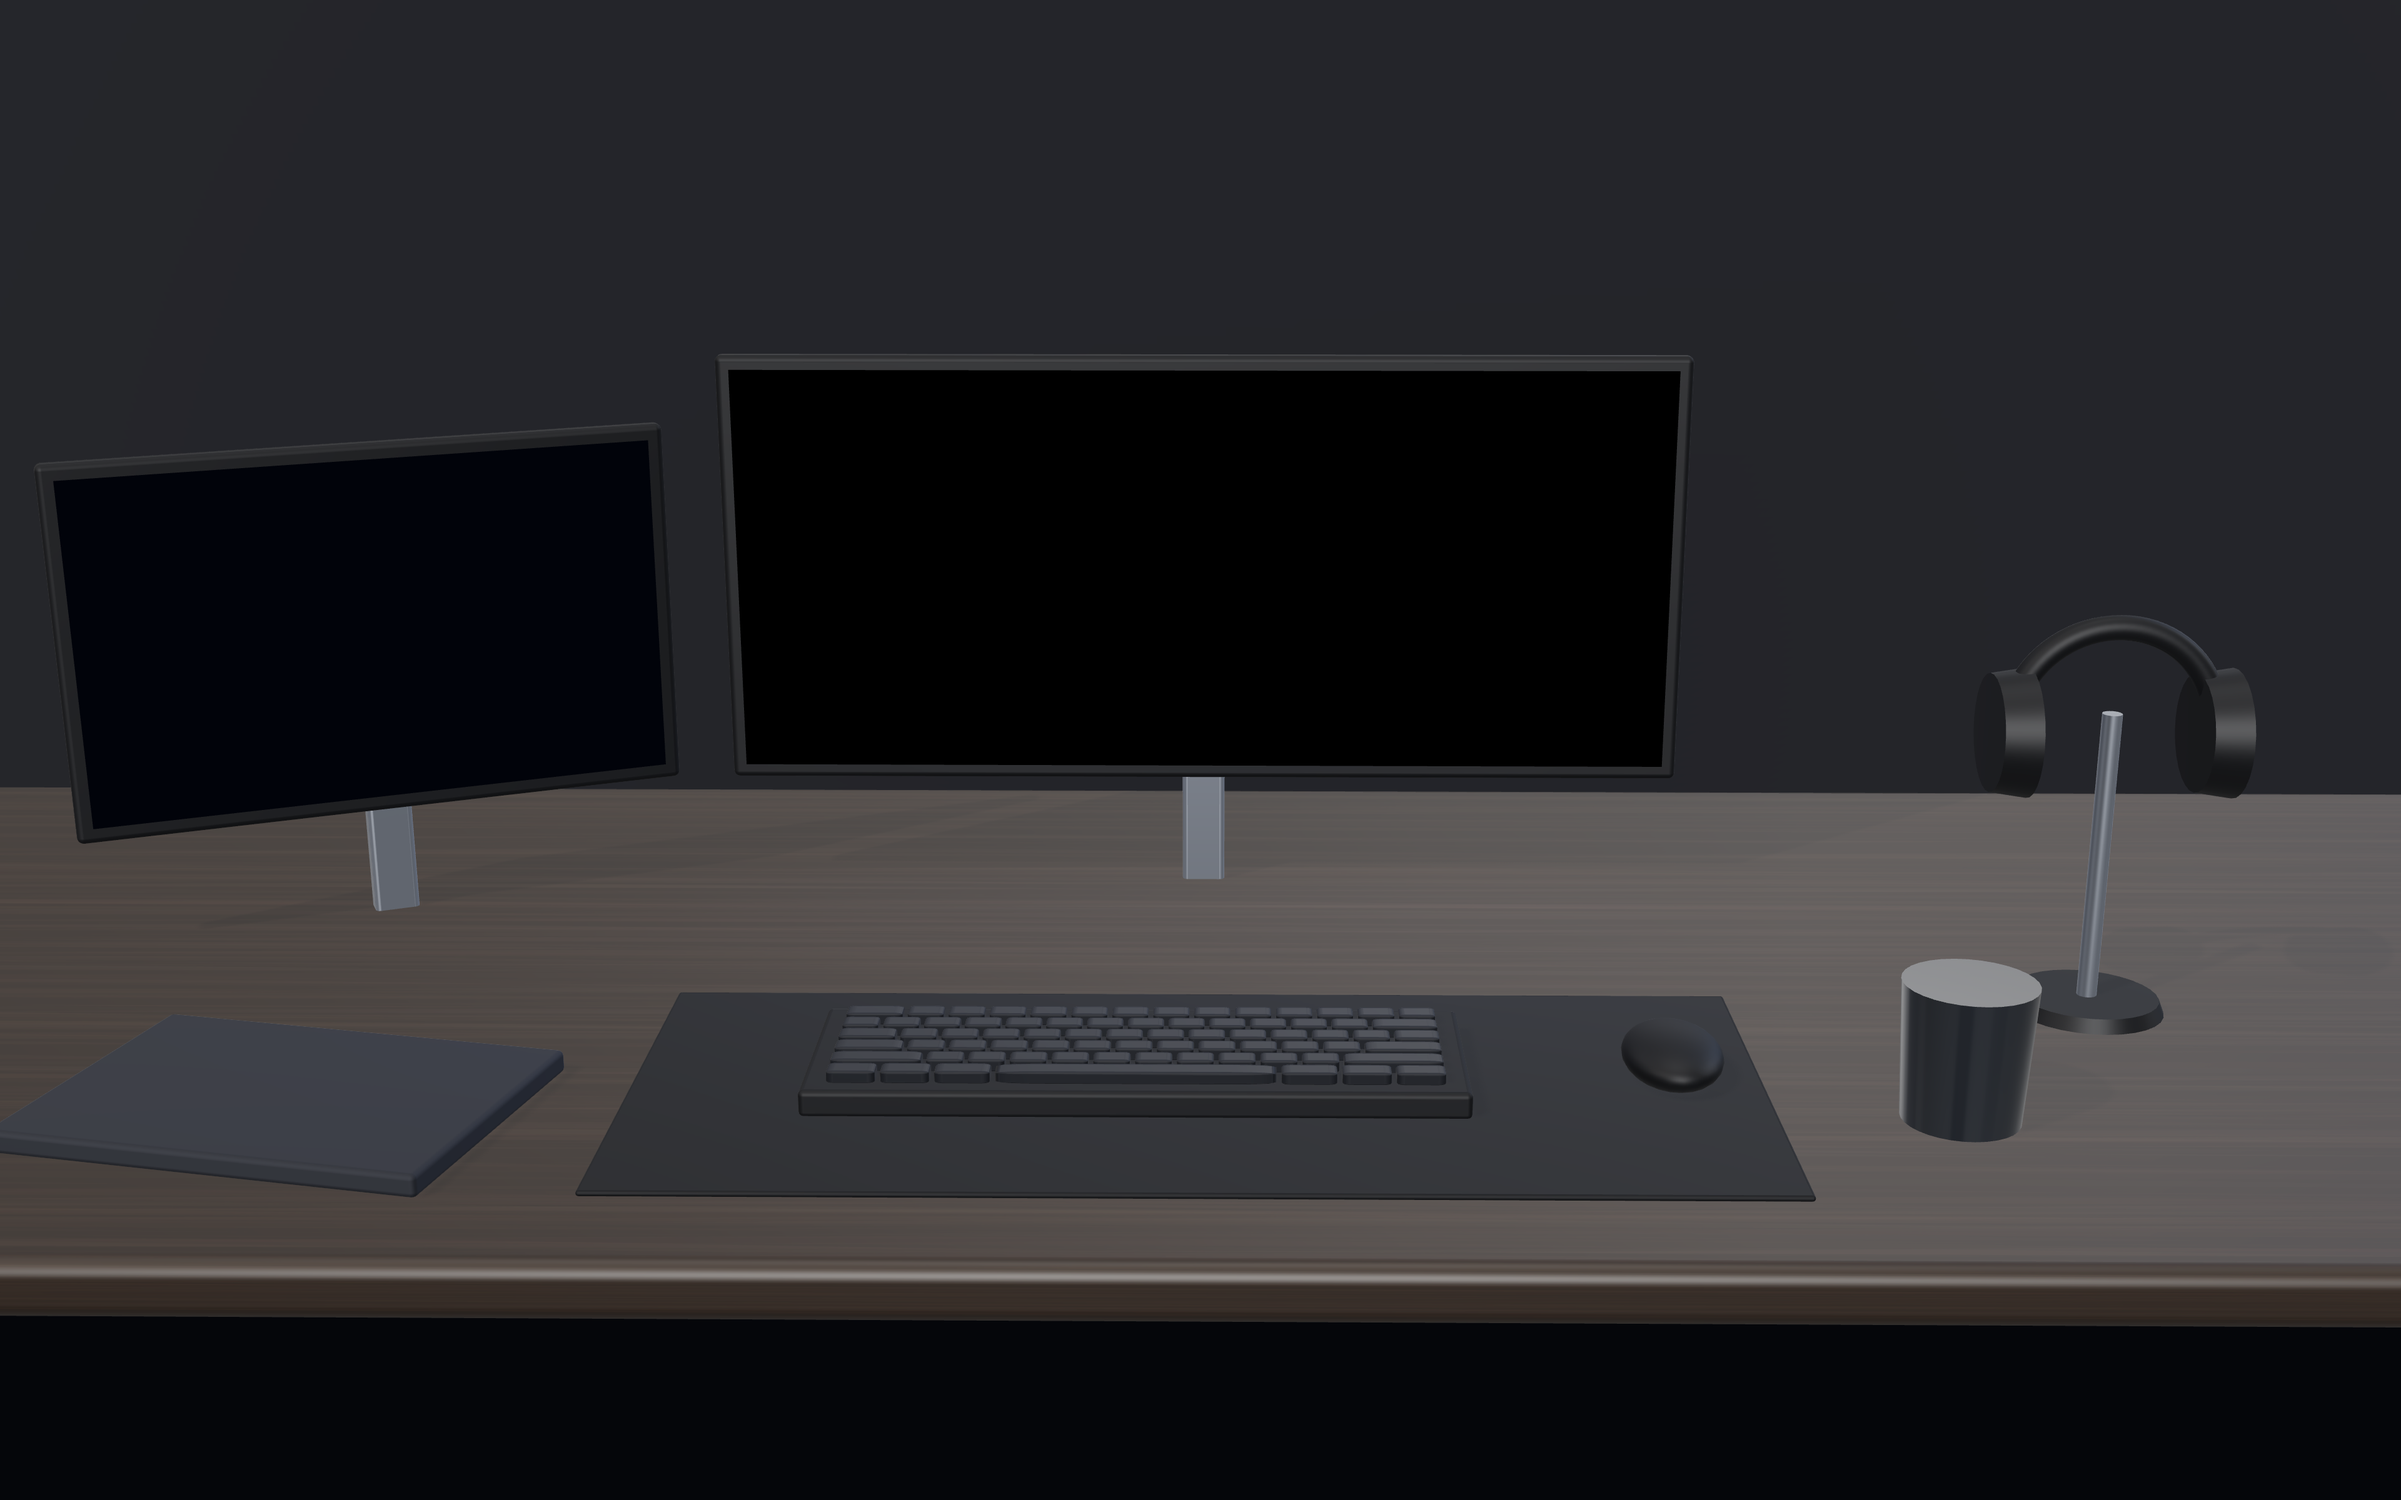
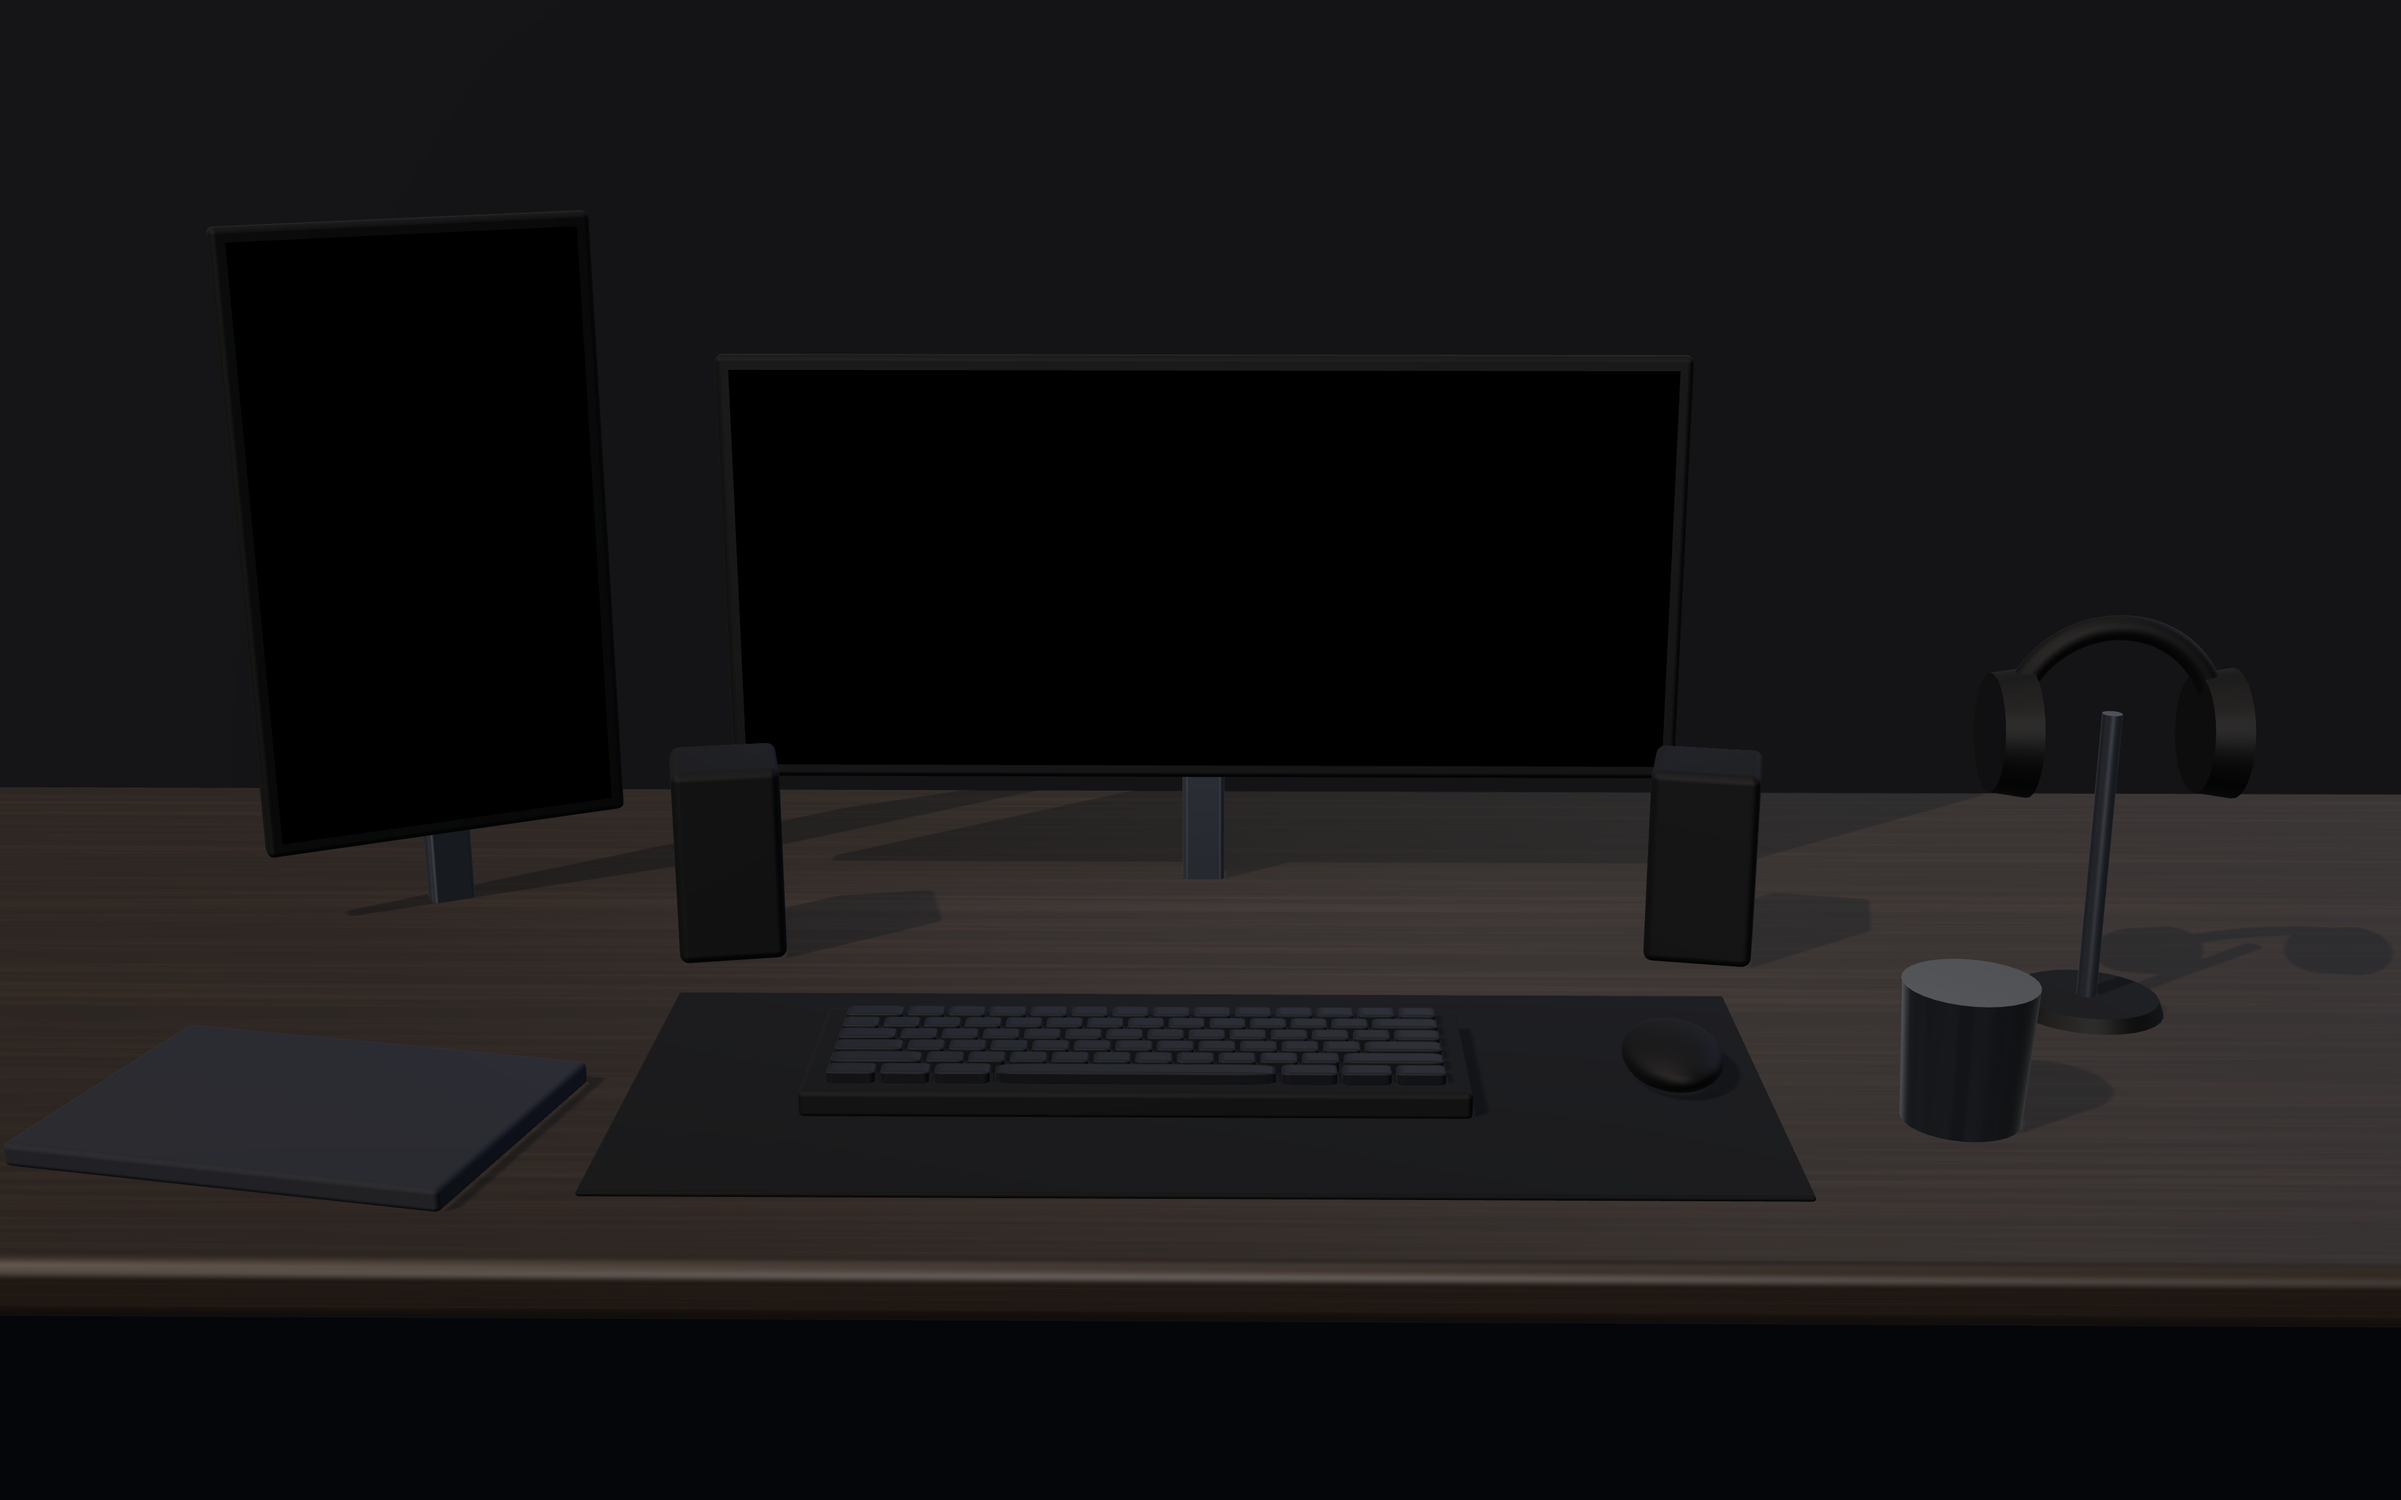
Art-direct the render, and prove the screen mapping
Answering the five questions honestly first: on the previous render,
four of five were "no". It looked like a clean 3D mock-up, would not
have impressed anyone in three seconds, and the screens were black
placeholders so it said nothing about engineering. Per the brief, that
means iterate before moving forward.

Three things were holding it back, and none of them were geometry.

KEY-TO-FILL RATIO. Key 1.35 against ambient 0.55 and a bright
environment is roughly 2:1, which is flat lighting — and flat lighting
is exactly why it read as a mock-up. Nothing had a dark side, so
nothing had form. A product shot runs closer to 8:1. Key to 3.1,
ambient to 0.11, environment intensity to 0.35.

MATERIALS WERE GREY, NOT BLACK. envMapIntensity 0.42 on the enclosures
meant a studio environment was reflecting into every surface and
lifting the blacks until "matte black" rendered as mid-grey plastic.
0.12 lets the key light describe the form instead of the environment
washing it flat. Contact shadows are now visible under every object,
which is what puts them ON the desk rather than above it.

OBJECTS THAT EARN THEIR PLACE. The secondary monitor is now PORTRAIT —
a vertical monitor is one of the most reliable "this person reads logs
and diffs for a living" signals there is, and it is a working choice
rather than a decorative one. Speakers added, flanking the primary.

BOTH SCREENS ARE NOW LIVE SURFACES. Per your answer, the secondary is
[…]

diff --git a/design/render/scene.ts b/design/render/scene.ts
@@ -39,13 +39,49 @@ export const RENDER_H = 2400;
 const SCREEN_W = 74;
 const SCREEN_H = 32;
 
+/** The secondary is portrait — a vertical monitor is one of the most reliable
+ *  "this person reads logs and diffs for a living" signals there is. */
+const SEC_W = 26;
+const SEC_H = 46;
+const SEC_YAW = 0.5;
+
 export type SceneHandles = {
   renderer: THREE.WebGLRenderer;
   scene: THREE.Scene;
   camera: THREE.PerspectiveCamera;
-  /** World-space corners of the primary screen, TL/TR/BR/BL. */
+  /** World-space corners, TL/TR/BR/BL, for each live surface. */
   screenCorners: THREE.Vector3[];
+  secondaryCorners: THREE.Vector3[];
 };
+
+/**
+ * World-space corners of a screen plane.
+ *
+ * Both monitors need this and the secondary is yawed, so the rotation has to
+ * be applied rather than assumed away — hand-writing axis-aligned corners
+ * works for the primary and silently produces a skewed quad for anything
+ * turned even slightly.
+ */
+function screenQuad(
+  centre: THREE.Vector3,
+  w: number,
+  h: number,
+  yaw: number,
+  faceOffset: number,
+): THREE.Vector3[] {
+  const right = new THREE.Vector3(Math.cos(yaw), 0, -Math.sin(yaw));
+  const up = new THREE.Vector3(0, 1, 0);
+  const normal = new THREE.Vector3(Math.sin(yaw), 0, Math.cos(yaw));
+  const o = centre.clone().add(normal.multiplyScalar(faceOffset));
+  const hx = right.clone().multiplyScalar(w / 2);
+  const hy = up.clone().multiplyScalar(h / 2);
+  return [
+    o.clone().sub(hx).add(hy),
+    o.clone().add(hx).add(hy),
+    o.clone().add(hx).sub(hy),
+    o.clone().sub(hx).sub(hy),
+  ];
+}
 
 /* ── Materials ─────────────────────────────────────────────────────────── */
 
@@ -101,23 +137,31 @@ function materials() {
       metalness: 0.0,
       clearcoat: 0.35,
       clearcoatRoughness: 0.5,
-      envMapIntensity: 0.5,
+      envMapIntensity: 0.2,
     }),
-    // Matte black for every enclosure. Low metalness on purpose: anodised
-    // black plastic and painted metal both read matte, and a shiny black body
-    // is the "gaming" cue the brief rules out.
+    /*
+      Matte black for every enclosure.
+
+      `envMapIntensity` is the number that matters here, and 0.42 was far too
+      high: a studio environment reflecting into every surface lifts the blacks
+      until a "matte black" monitor renders mid-grey plastic. Dropping it to
+      0.12 lets the key light describe the form instead of the environment
+      washing it flat — which is the whole difference between a lit object and
+      a shaded one. Low metalness stays on purpose: a shiny black body is the
+      gaming cue the brief rules out.
+    */
     matte: new THREE.MeshPhysicalMaterial({
-      color: 0x14161a,
-      roughness: 0.66,
-      metalness: 0.12,
-      envMapIntensity: 0.42,
+      color: 0x0e1013,
+      roughness: 0.72,
+      metalness: 0.08,
+      envMapIntensity: 0.12,
     }),
     // Brushed aluminium for arms and stands — the one place metal belongs.
     alu: new THREE.MeshPhysicalMaterial({
-      color: 0x9aa0aa,
-      roughness: 0.38,
-      metalness: 0.92,
-      envMapIntensity: 0.7,
+      color: 0x6f757f,
+      roughness: 0.42,
+      metalness: 0.95,
+      envMapIntensity: 0.45,
     }),
     keycap: new THREE.MeshPhysicalMaterial({
       color: 0x1b1e24,
@@ -294,7 +338,7 @@ export function buildScene(canvas: HTMLCanvasElement): SceneHandles {
   renderer.setSize(RENDER_W, RENDER_H, false);
   renderer.setPixelRatio(1);
   renderer.toneMapping = THREE.ACESFilmicToneMapping;
-  renderer.toneMappingExposure = 0.72;
+  renderer.toneMappingExposure = 0.78;
   renderer.shadowMap.enabled = true;
   renderer.shadowMap.type = THREE.PCFSoftShadowMap;
 
@@ -303,6 +347,7 @@ export function buildScene(canvas: HTMLCanvasElement): SceneHandles {
 
   const pmrem = new THREE.PMREMGenerator(renderer);
   scene.environment = pmrem.fromScene(new RoomEnvironment(), 0.04).texture;
+  scene.environmentIntensity = 0.35;
   pmrem.dispose();
 
   const m = materials();
@@ -339,22 +384,20 @@ export function buildScene(canvas: HTMLCanvasElement): SceneHandles {
   primary.group.position.set(2, 26, -22);
   scene.add(primary.group);
 
-  const secondary = makeMonitor(m, 46, 29, false);
-  secondary.group.position.set(-62, 23, -14);
-  secondary.group.rotation.y = 0.42;
-  scene.add(secondary.group);
+  /*
+    The secondary is PORTRAIT, and turned toward the viewer.
 
-  // A dark emissive plane on the secondary, so it reads as ON without needing
-  // legible content — the engineering surfaces live on the primary's DOM.
-  const secPanel = new THREE.Mesh(
-    new THREE.PlaneGeometry(43.6, 26.6),
-    new THREE.MeshBasicMaterial({ color: 0x0d1524 }),
-  );
-  secPanel.position.copy(secondary.group.position);
-  secPanel.position.z += 0.85 * Math.cos(0.42);
-  secPanel.position.x += 0.85 * Math.sin(0.42);
-  secPanel.rotation.y = 0.42;
-  scene.add(secPanel);
+    A vertical monitor is one of the most reliable "this person reads logs and
+    diffs for a living" signals available — it is a working choice rather than
+    a decorative one, which is exactly the test the brief sets for every object
+    on this desk. It is also live DOM at runtime, so its corners are exported
+    alongside the primary's.
+  */
+  const secPos = new THREE.Vector3(-58, 30, -16);
+  const secondary = makeMonitor(m, SEC_W + 2.2, SEC_H + 2.2, true);
+  secondary.group.position.copy(secPos);
+  secondary.group.rotation.y = SEC_YAW;
+  scene.add(secondary.group);
 
   // ── Desk objects ──────────────────────────────────────────────────────
   const mat = new THREE.Mesh(new RoundedBoxGeometry(76, 0.4, 34, 2, 0.6), m.matte);
@@ -382,18 +425,42 @@ export function buildScene(canvas: HTMLCanvasElement): SceneHandles {
   scene.add(mug);
 
   const notebook = new THREE.Mesh(new RoundedBoxGeometry(30, 1.6, 21, 2, 0.4), m.paper);
-  notebook.position.set(-58, 0.8, 26);
+  notebook.position.set(-56, 0.8, 28);
   notebook.rotation.y = -0.22;
   notebook.castShadow = true;
   notebook.receiveShadow = true;
   scene.add(notebook);
+
+  // Speakers. Small, matte, flanking the primary — they belong to the "has a
+  // reason to exist" list rather than the accessory list.
+  for (const x of [-34, 40]) {
+    const sp = new THREE.Mesh(new RoundedBoxGeometry(8, 15, 8, 3, 0.7), m.matte);
+    sp.position.set(x, 7.5, -6);
+    sp.rotation.y = x < 0 ? 0.2 : -0.2;
+    sp.castShadow = true;
+    sp.receiveShadow = true;
+    scene.add(sp);
+  }
 
   /* ── Lighting ────────────────────────────────────────────────────────
      One key, one rim, one ambient bounce, plus the monitors' own emission.
      No coloured practicals — the brief rules out RGB, and a scene lit by one
      directional source with a cool rim is the register that reads as product
      photography rather than as a desk setup. */
-  const key = new THREE.DirectionalLight(0xffeede, 1.35);
+  /*
+    KEY-TO-FILL RATIO IS THE WHOLE GAME.
+
+    The first pass had key 1.35 against ambient 0.55 and a bright environment
+    — roughly 2:1, which is flat lighting, and flat lighting is why the scene
+    read as a mock-up rather than a photograph. Nothing had a dark side, so
+    nothing had form.
+
+    A product shot runs closer to 8:1. Key up, ambient down to a whisper, and
+    the environment pulled back on every material. The result is that objects
+    are lit on one side and fall away on the other, which is what makes them
+    look like objects.
+  */
+  const key = new THREE.DirectionalLight(0xffeede, 3.1);
   key.position.set(-90, 120, 70);
   key.castShadow = true;
   key.shadow.mapSize.set(4096, 4096);
@@ -405,10 +472,10 @@ export function buildScene(canvas: HTMLCanvasElement): SceneHandles {
   key.shadow.camera.top = s;
   key.shadow.camera.bottom = -s;
   key.shadow.bias = -0.0008;
-  key.shadow.radius = 4;
+  key.shadow.radius = 2.5;
   scene.add(key);
 
-  const rim = new THREE.DirectionalLight(0x9fc4ff, 0.85);
+  const rim = new THREE.DirectionalLight(0x9fc4ff, 0.55);
   rim.position.set(120, 60, -110);
   scene.add(rim);
 
@@ -418,7 +485,7 @@ export function buildScene(canvas: HTMLCanvasElement): SceneHandles {
   glow.lookAt(2, 8, 40);
   scene.add(glow);
 
-  scene.add(new THREE.AmbientLight(0x222b42, 0.3));
+  scene.add(new THREE.AmbientLight(0x1a2136, 0.11));
 
   // ── Camera ────────────────────────────────────────────────────────────
   // A long lens, for the same reason as the laptop: it keeps parallel edges
@@ -435,16 +502,10 @@ export function buildScene(canvas: HTMLCanvasElement): SceneHandles {
     rather than eyeballed against the image. If the scene moves, the corners
     move with it and the site picks up the new numbers.
   */
-  const p = primary.group.position;
-  const z = p.z + 0.81;
-  const screenCorners = [
-    new THREE.Vector3(p.x - SCREEN_W / 2, p.y + SCREEN_H / 2, z),
-    new THREE.Vector3(p.x + SCREEN_W / 2, p.y + SCREEN_H / 2, z),
-    new THREE.Vector3(p.x + SCREEN_W / 2, p.y - SCREEN_H / 2, z),
-    new THREE.Vector3(p.x - SCREEN_W / 2, p.y - SCREEN_H / 2, z),
-  ];
+  const screenCorners = screenQuad(primary.group.position, SCREEN_W, SCREEN_H, 0, 0.82);
+  const secondaryCorners = screenQuad(secPos, SEC_W, SEC_H, SEC_YAW, 0.82);
 
-  return { renderer, scene, camera, screenCorners };
+  return { renderer, scene, camera, screenCorners, secondaryCorners };
 }
 
 /** Project a world point to 0..1 image space. */

diff --git a/app/render-studio/Studio.tsx b/app/render-studio/Studio.tsx
@@ -19,13 +19,19 @@ export function Studio() {
     const canvas = canvasRef.current;
     if (!canvas) return;
 
-    const { renderer, scene, camera, screenCorners } = buildScene(canvas);
+    const { renderer, scene, camera, screenCorners, secondaryCorners } =
+      buildScene(canvas);
     renderer.render(scene, camera);
 
-    // The projected quad, in 0..1 image space. The capture script writes this
-    // next to the image so the runtime never has to guess where the screen is.
-    const projected = screenCorners.map((v) => projectToImage(v, camera));
-    setCorners(JSON.stringify(projected));
+    // Both projected quads, in 0..1 image space. The capture script writes
+    // these next to the image so the runtime never has to guess where either
+    // screen is — the secondary is live DOM too.
+    setCorners(
+      JSON.stringify({
+        primary: screenCorners.map((v) => projectToImage(v, camera)),
+        secondary: secondaryCorners.map((v) => projectToImage(v, camera)),
+      }),
+    );
 
     // Announce readiness only after the frame is actually on the canvas.
     requestAnimationFrame(() => {
